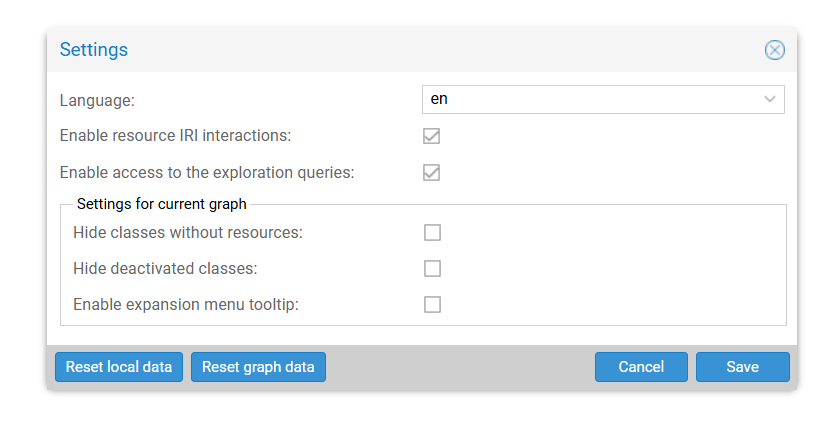
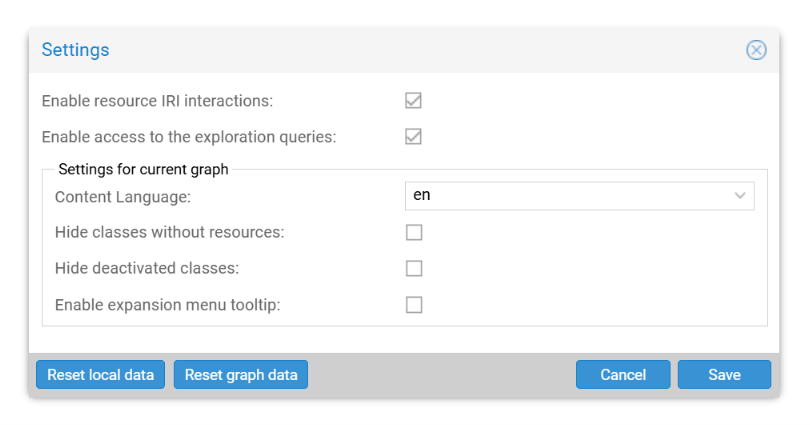
docs(user-guide): add description of content language setting and clean up spacings

diff --git a/docs/explore-and-author/graph-exploration/graph-insights/features/category-tree.md b/docs/explore-and-author/graph-exploration/graph-insights/features/category-tree.md
@@ -33,7 +33,7 @@ The tree displays the hierarchical taxonomy of the dataset:
 The tree is the primary tool to populate the canvas:
 
 - **Drag and drop (Start):** Dragging a class to an empty area clears the canvas and starts a new exploration with a group of the selected class.
-  *Alternatives: Double-click the class or use its context menu item `Start exploration with class`.*
+    - *Alternatives: Double-click the class or use its context menu item `Start exploration with class`.*
 - **Drag and drop (Intersect):** Drag a class onto an **existing** group to apply an intersection filter (e.g., dragging `German Suppliers` onto `VIP Suppliers` restricts the group to resources with **both classes**).
 
 ---

diff --git a/docs/explore-and-author/graph-exploration/graph-insights/features/groups.md b/docs/explore-and-author/graph-exploration/graph-insights/features/groups.md
@@ -89,7 +89,7 @@ The **expansion menu** of a group presents the options available for adding a no
 
 ![Expansion Menu](../assets/expansion-menu.png){ class="bordered" width="65%" }
 
-1. **Alternative:** For schemas with deep object property hierarchies (or if you know exactly which object property) use the search bar to locate specific paths.
+4. **Alternative:** For schemas with deep object property hierarchies (or if you know exactly which object property) use the search bar to locate specific paths.
 
 ![Filtered Expansion Menu](../assets/expansion-menu-flattened.png){ class="bordered" width="65%" }
 

diff --git a/docs/explore-and-author/graph-exploration/graph-insights/tutorial.md b/docs/explore-and-author/graph-exploration/graph-insights/tutorial.md
@@ -93,7 +93,7 @@ We define "VIP" as customers with the highest volume of incoming orders.
 
 ![USA Customer Filter](assets/tutorial-usa-customer-filter.png){ class="bordered" width="80%" }
 
-1. **Select and restrict:** Check the boxes for the top 5 customers and click `Restrict to selection`.
+4. **Select and restrict:** Check the boxes for the top 5 customers and click `Restrict to selection`.
 
 ![Top USA Customer Filter](assets/tutorial-top-usa-customer-filter.png){ class="bordered" width="85%" }
 

diff --git a/docs/explore-and-author/graph-exploration/graph-insights/features/application-settings.md b/docs/explore-and-author/graph-exploration/graph-insights/features/application-settings.md
@@ -10,6 +10,7 @@ Access global configuration via the top-left dropdown menu.
 
 - **Technical details:** Toggles visibility of low-level metadata, including **IRIs** and **SPARQL queries**.
 - **Tree visibility:** Hides empty or deactivated classes in the class tree.
+- **Content language:** Sets the preferred language for captions and descriptions. Options are dynamically populated from the current database and selecting a new language triggers an immediate data reload.
 
 ![Settings Window](../assets/settings.png){ class="bordered" width="60%" }
 